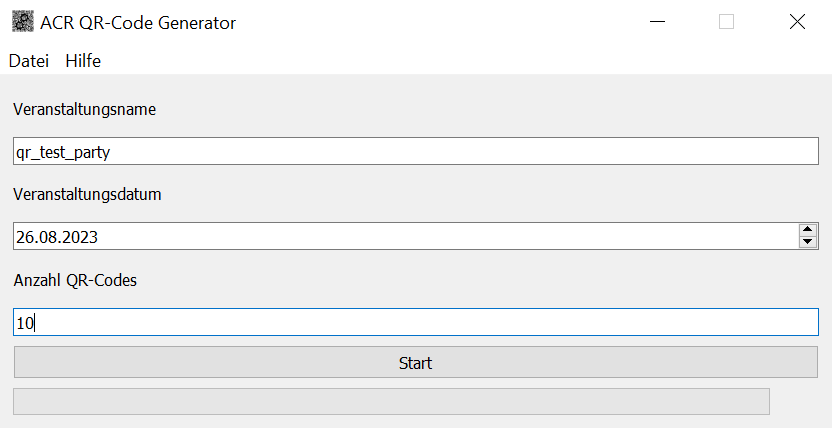
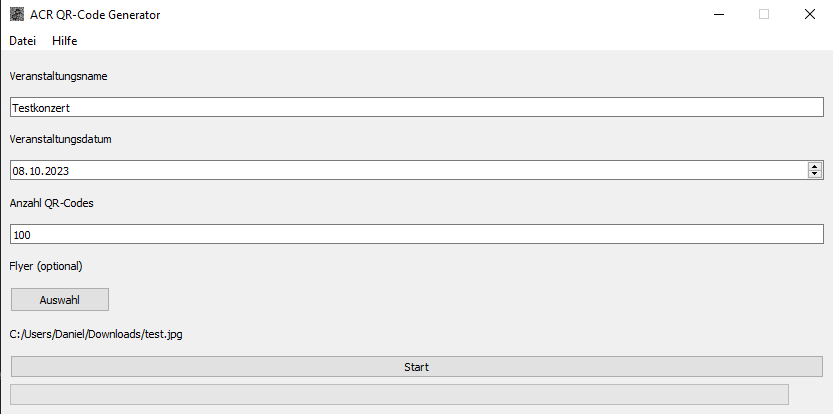
Update doc and GUI

diff --git a/src/generator/generator_lib/gui.py b/src/generator/generator_lib/gui.py
@@ -175,7 +175,7 @@ class GeneratorQtMainWindow(QtWidget.QMainWindow):
         self.widget_layout.addWidget(self.progress_bar)
         self.progress_indicator = ProgressIndicator(
             self.progress_bar, self.start_button, self.config.out_dir)
-        self.progress_poll_timer = QtCore.QTimer()
+        self.progress_poll_timer: QtCore.QTimer = QtCore.QTimer()
         self.progress_poll_timer.setInterval(1000)
         self.progress_poll_timer.timeout.connect(self._on_poll_for_progress)
 
@@ -242,7 +242,7 @@ class GeneratorQtMainWindow(QtWidget.QMainWindow):
         self._init_event_date_edit()
         self.widget_layout.addWidget(QtWidget.QLabel('Anzahl QR-Codes'))
         self._init_num_qr_codes_edit()
-        self.widget_layout.addWidget(QtWidget.QLabel('Flyer'))
+        self.widget_layout.addWidget(QtWidget.QLabel('Flyer (optional)'))
         self._init_flyer_edit()
         self._init_start_button()
         self._init_progress_bar()

diff --git a/doc/how_to_use_generator_de.md b/doc/how_to_use_generator_de.md
@@ -7,8 +7,9 @@ Der Generator erstellt QR-Codes, die als E-Tickets für Veranstaltungen genutzt 
 1. Starte das Programm *ACR_QR_Generator.exe*
 2. Klicke den *Neu generieren* Button in der geöffneten Infobox
 3. Lege den Namen der Veranstaltung, das Datum* und die Anzahl der gewünschten QR-Codes fest
-4. Drücke den *Start* Button, um die Generierung zu starten
-5. Wenn die Generierung abgeschlossen ist, kann der Ausgabeordner über die Infobox geöffnet werden
+4. Optional: Wähle eine Grafik, z.B. das Flyer der Veranstaltung, aus.
+5. Drücke den *Start* Button, um die Generierung zu starten
+6. Wenn die Generierung abgeschlossen ist, kann der Ausgabeordner über die Infobox geöffnet werden
 
 \* Sollte die Veranstaltung auf ein anderes Datum verschoben werden ist dies nicht weiter schlimm. Es muss dann im Scanner lediglich das ursprüngliche Veranstaltungsdatum konfiguriert werden. 
 
